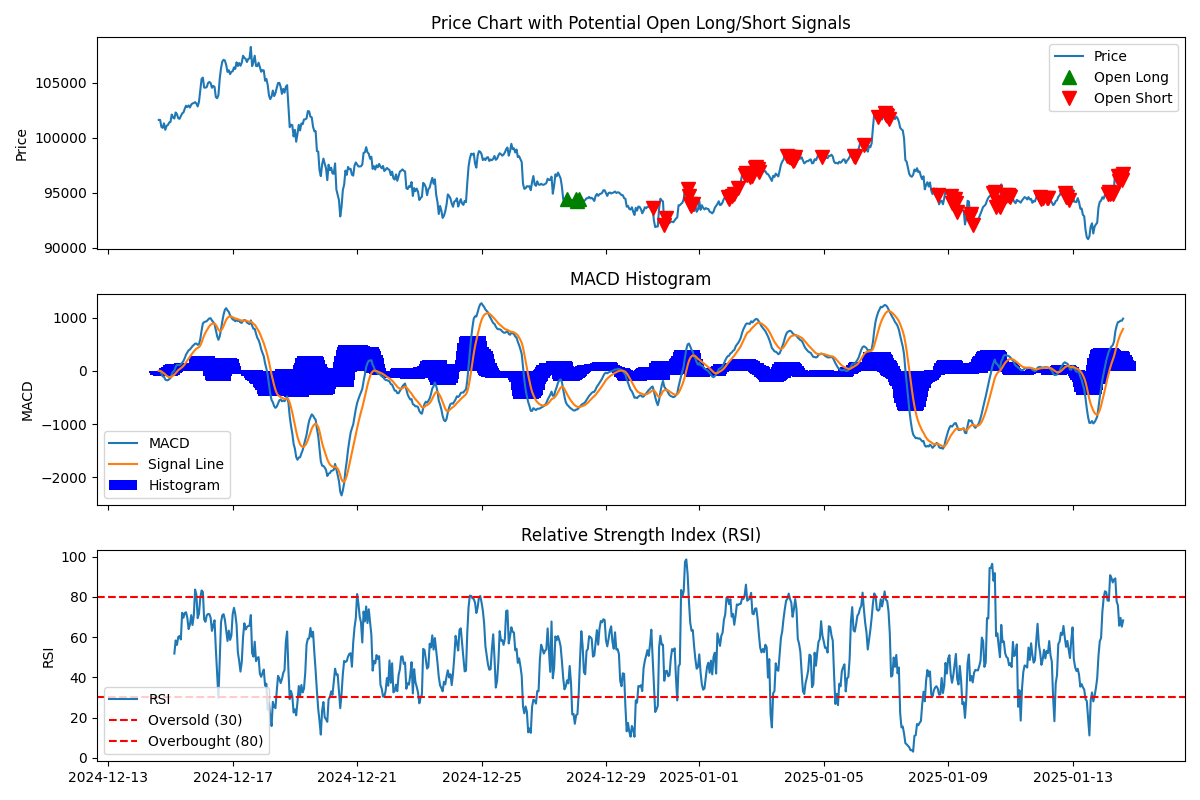
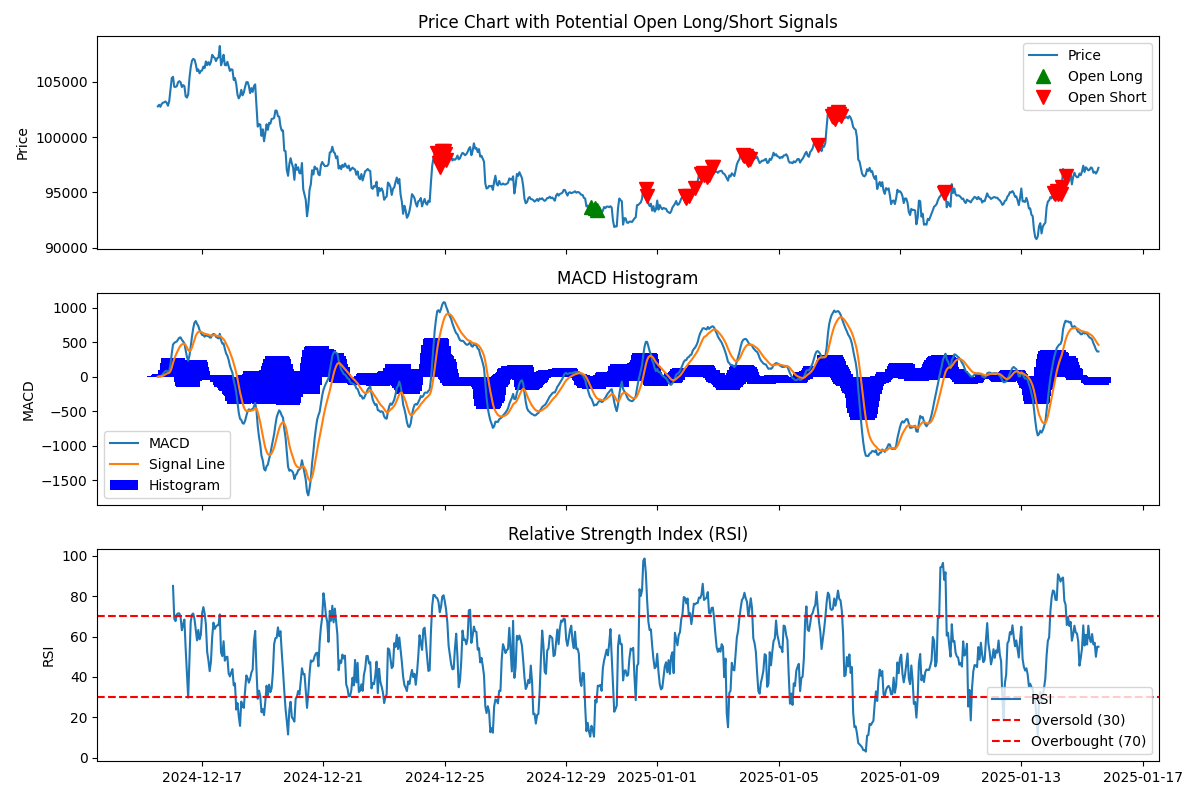
update algorithm

diff --git a/macd_divergence.py b/macd_divergence.py
@@ -2,20 +2,21 @@ import yfinance as yf
 import pandas as pd
 import numpy as np
 import matplotlib.pyplot as plt
+from scipy.signal import argrelextrema
 
 # Trading parameters
 ticker = "BTC-USD"
 period = "1mo"
 interval = "1h"
-macd_fast = 13
-macd_slow = 34
+macd_fast = 12
+macd_slow = 26
 macd_signal = 9
-lookback_period = 240
+lookback_period = 144
 atr_period = 14
-divergence_threshold = 0  
+divergence_threshold = 0
 rsi_period = 13
 rsi_oversold = 30
-rsi_overbought = 80
+rsi_overbought = 70
 
 def calculate_macd(data, fast, slow, signal):
     """Calculates MACD, signal line, and histogram."""
@@ -47,56 +48,103 @@ def calculate_rsi(data, period):
     rsi = 100 - (100 / (1 + rs))
     return rsi
 
+def find_histogram_peaks(histogram):
+    peak_indices = []
+
+    # Pad the histogram with zeros at the beginning and end for edge cases
+    padded_histogram = np.pad(histogram.values, (1, 1), 'constant', constant_values=(0, 0))
+
+    # Find indices where the histogram crosses zero
+    zero_crossings = np.where(np.diff(np.signbit(padded_histogram)))[0]
+    #print(f'number of sections: {len(zero_crossings)}')
+
+    # Iterate through each section and find the maximum or minimum
+    for i in range(len(zero_crossings) - 1):
+        start = zero_crossings[i]
+        end = zero_crossings[i+1]
+        section = histogram.iloc[start:end]
+
+        if not section.empty:
+            if section.iloc[0] >= 0:  # Positive section
+                peak_index = section.idxmax()
+            else:  # Negative section
+                peak_index = section.idxmin()
+
+            peak_indices.append(peak_index)
+
+    return pd.Series(peak_indices)
+
 def detect_divergence(data, macd, signal_line, histogram, lookback, threshold):
-    """Detects regular bullish and bearish divergences with a threshold."""
+    """Detects regular and hidden bullish/bearish divergences with a threshold."""
     price = data['Close']
 
     divergence = 'none'
 
-    # Identify recent swing highs/lows in price
-    price_lows_idx = price.iloc[-lookback:].nsmallest(2).index
-    price_highs_idx = price.iloc[-lookback:].nlargest(2).index
+    peak_indices = find_histogram_peaks(histogram)
+    histogram_peaks = histogram.loc[peak_indices]
+    histogram_maxima = histogram_peaks[histogram_peaks > 0]
+    histogram_minima = histogram_peaks[histogram_peaks < 0]
 
-    # Sort index to maintain chronological order
-    price_lows_idx = price_lows_idx.sort_values()
-    price_highs_idx = price_highs_idx.sort_values()
-    histogram_highs = histogram.loc[price_highs_idx]
-    histogram_lows = histogram.loc[price_lows_idx]
+    # Iterate through all pairs of sequential histogram maxima for bearish divergences
+    if len(histogram_maxima) >= 2:
+        for i in range(len(histogram_maxima)):
+            for j in range(i + 1, len(histogram_maxima)):
+                # Corresponding price points for histogram maxima
+                price_maxima = price.loc[histogram_maxima.index]
 
-    # Check price trend and corresponding histogram
-    if price_lows_idx[1] > price_lows_idx[0]:
-        # Regular Bullish Divergence
-        if price[price_lows_idx[1]] < price[price_lows_idx[0]]:  # Lower low in price
-            #histogram_lows = histogram.loc[price_lows_idx]
-            if histogram_lows.iloc[1] > histogram_lows.iloc[0]:  # Higher low in histogram
-                # Check if divergence meets the threshold
-                price_diff = (price[price_lows_idx[0]] - price[price_lows_idx[1]]) / price[price_lows_idx[1]]
-                histogram_diff = (histogram_lows.iloc[1] - histogram_lows.iloc[0]) / histogram_lows.iloc[0]
-                if price_diff > threshold and histogram_diff > threshold:
-                    divergence = 'regular_bullish'
-            if histogram_highs.iloc[1] > histogram_highs.iloc[0]:  # Higher high in histogram
-                # Check if divergence meets the threshold
-                price_diff = (price[price_lows_idx[0]] - price[price_lows_idx[1]]) / price[price_lows_idx[1]]
-                histogram_diff = (histogram_highs.iloc[0] - histogram_highs.iloc[1]) / histogram_highs.iloc[1]
-                if price_diff > threshold and histogram_diff > threshold:
-                    divergence = 'hidden_bullish'   
+                # Regular Bearish Divergence
+                if price_maxima.iloc[j] > price_maxima.iloc[i]:  # Higher high in price
+                    if histogram_maxima.iloc[j] < histogram_maxima.iloc[i]:  # Lower high in histogram
+                        price_diff = abs((price_maxima.iloc[j] - price_maxima.iloc[i]) / price_maxima.iloc[i])
+                        histogram_diff = abs((histogram_maxima.iloc[i] - histogram_maxima.iloc[j]) / histogram_maxima.iloc[j])
+                        if price_diff > threshold and histogram_diff > threshold:
+                            divergence = 'regular_bearish'
+                            break
 
-    if price_highs_idx[1] > price_highs_idx[0]:
-        # Regular Bearish Divergence
-        if price[price_highs_idx[1]] > price[price_highs_idx[0]]:  # Higher high in price
-            #histogram_highs = histogram.loc[price_highs_idx]
-            if histogram_highs.iloc[1] < histogram_highs.iloc[0]:  # Lower high in histogram
-                # Check if divergence meets the threshold
-                price_diff = (price[price_highs_idx[1]] - price[price_highs_idx[0]]) / price[price_highs_idx[0]]
-                histogram_diff = (histogram_highs.iloc[0] - histogram_highs.iloc[1]) / histogram_highs.iloc[1]
-                if price_diff > threshold and histogram_diff > threshold:
-                    divergence = 'regular_bearish'
-            if histogram_lows.iloc[1] < histogram_lows.iloc[0]:  # Lower low in histogram
-                # Check if divergence meets the threshold
-                price_diff = (price[price_highs_idx[1]] - price[price_highs_idx[0]]) / price[price_highs_idx[0]]
-                histogram_diff = (histogram_lows.iloc[1] - histogram_lows.iloc[0]) / histogram_lows.iloc[0]
-                if price_diff > threshold and histogram_diff > threshold:
-                    divergence = 'hidden_bearish'
+                # Hidden Bearish Divergence
+                if price_maxima.iloc[j] < price_maxima.iloc[i]:  # Lower high in price
+                    if histogram_maxima.iloc[j] > histogram_maxima.iloc[i]:  # Higher high in histogram
+                        price_diff = abs((price_maxima.iloc[i] - price_maxima.iloc[j]) / price_maxima.iloc[j])
+                        histogram_diff = abs((histogram_maxima.iloc[j] - histogram_maxima.iloc[i]) / histogram_maxima.iloc[i])
+                        if price_diff > threshold and histogram_diff > threshold:
+                            divergence = 'hidden_bearish'
+                            break
+            if divergence != 'none':
+                break
+
+    if divergence != 'none':
+        return divergence
+
+    # Iterate through all pairs of sequential histogram minima for bullish divergences
+    if len(histogram_minima) >= 2:
+        for i in range(len(histogram_minima)):
+            for j in range(i + 1, len(histogram_minima)):
+                # Corresponding price points for histogram minima
+                price_minima = price.loc[histogram_minima.index]
+
+                # Regular Bullish Divergence
+                if price_minima.iloc[j] < price_minima.iloc[i]:  # Lower low in price
+                    #print("test1")
+                    if histogram_minima.iloc[j] > histogram_minima.iloc[i]:  # Higher low in histogram
+                        #print("test2")
+                        #divergence = 'regular_bullish'
+                        #break
+                        price_diff = abs((price_minima.iloc[i] - price_minima.iloc[j]) / price_minima.iloc[j])
+                        histogram_diff = abs((histogram_minima.iloc[j] - histogram_minima.iloc[i]) / histogram_minima.iloc[i])
+                        if price_diff > threshold and histogram_diff > threshold:
+                            divergence = 'regular_bullish'
+                            break
+
+                # Hidden Bullish Divergence
+                if price_minima.iloc[j] > price_minima.iloc[i]:  # Higher low in price
+                    if histogram_minima.iloc[j] < histogram_minima.iloc[i]:  # Lower low in histogram
+                        price_diff = abs((price_minima.iloc[j] - price_minima.iloc[i]) / price_minima.iloc[i])
+                        histogram_diff = abs((histogram_minima.iloc[i] - histogram_minima.iloc[j]) / histogram_minima.iloc[j])
+                        if price_diff > threshold and histogram_diff > threshold:
+                            divergence = 'hidden_bullish'
+                            break
+            if divergence != 'none':
+                break
 
     return divergence
 
@@ -121,18 +169,20 @@ def plot_signals(data):
 
         if divergence in ('regular_bullish', 'hidden_bullish'):
             active_divergence = 'bullish'
+            #print(f'Bullish Divergence detected at {timestamp} with price {current_price} and histogram {current_histogram}')
         elif divergence in ('regular_bearish', 'hidden_bearish'):
             active_divergence = 'bearish'
+            #print(f'Bearish Divergence detected at {timestamp} with price {current_price} and histogram {current_histogram}')
 
         if active_divergence == 'bullish':
             # Check for MACD histogram and RSI conditions for open long
-            if current_histogram < 0 and current_histogram > prev_histogram:# and current_rsi < rsi_oversold:
+            if current_histogram < 0 and current_histogram > prev_histogram and current_rsi < rsi_oversold:
                 open_long_signals.append((timestamp, current_price))
                 active_divergence = None  # Reset active divergence after signal
 
         elif active_divergence == 'bearish':
             # Check for MACD histogram and RSI conditions for open short
-            if current_histogram > 0 and current_histogram < prev_histogram:# and current_rsi > rsi_overbought:
+            if current_histogram > 0 and current_histogram < prev_histogram and current_rsi > rsi_overbought:
                 open_short_signals.append((timestamp, current_price))
                 active_divergence = None  # Reset active divergence after signal
 
